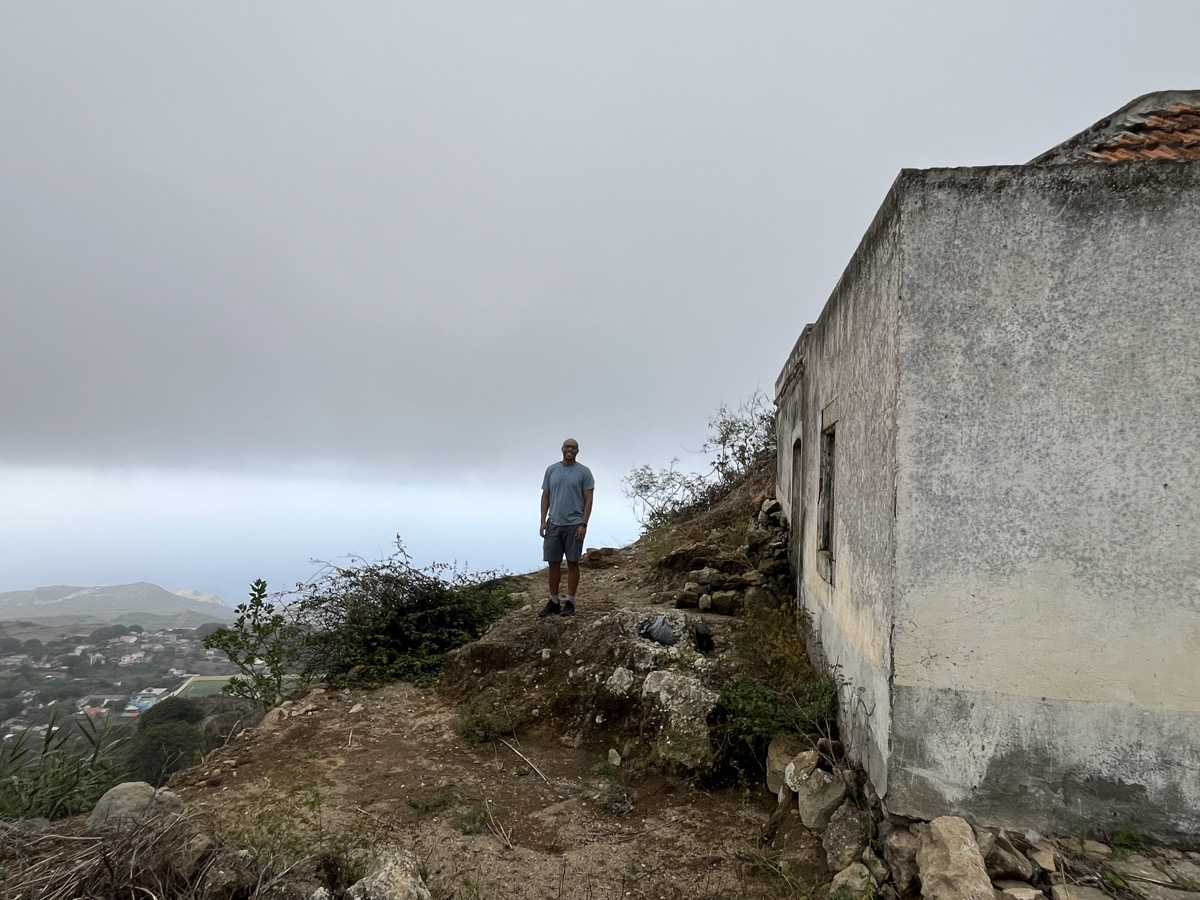
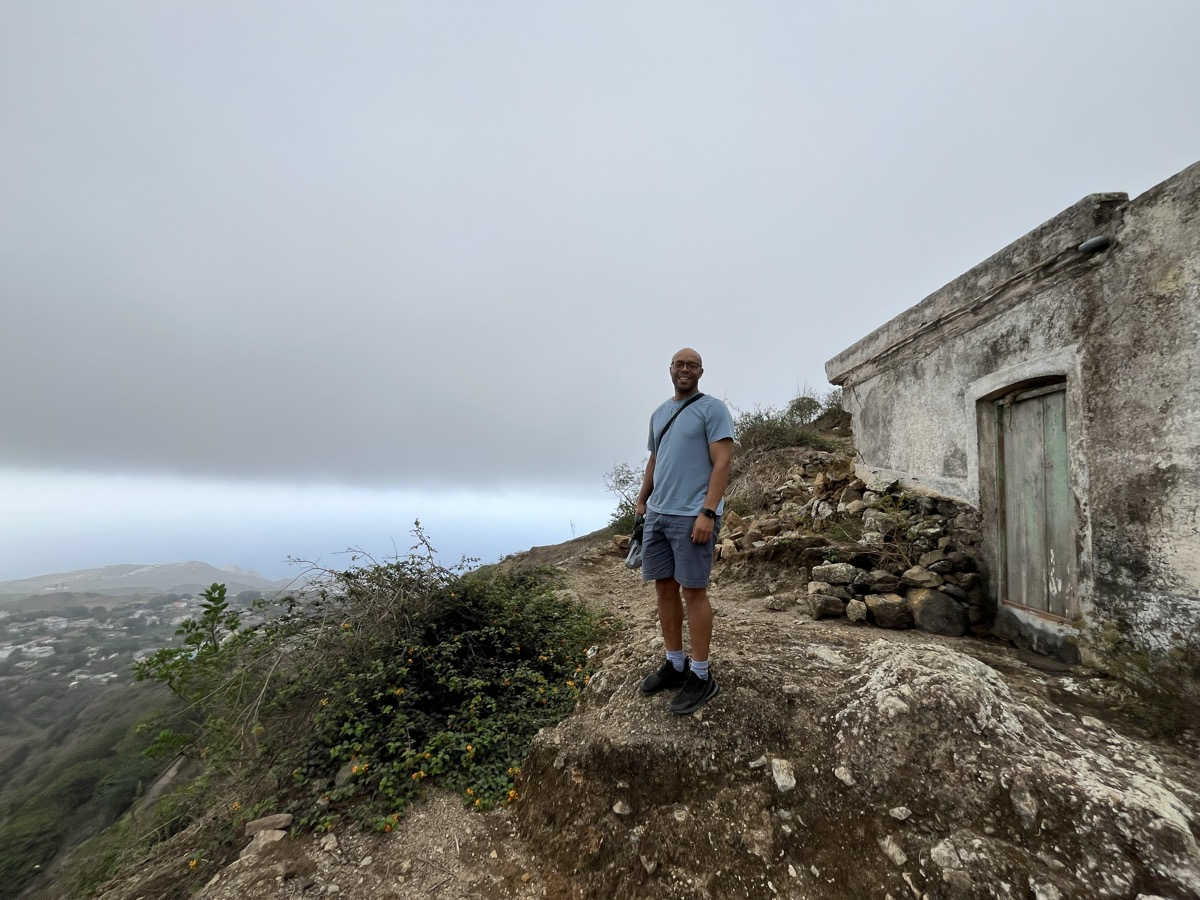
refactor: improve site copy, fix stale links, and add structured data
Content improvements based on portfolio best practices research:
- Rewrite home H1 to action-oriented: "...builds scalable backend systems
  that ship fast"
- Rewrite About page opening with hook-first approach instead of leading
  with years of experience
- Remove generic LinkedIn-speak from About closing paragraph
- Rewrite Articles intro to complement title instead of repeating it
- Use "13+ years" consistently across all metadata

Fixes:
- Update project repo link from costacodecraft to joaquimcosta.dev
- Update Uses: pyenv → uv, Cursor → Claude Code, add GCP alongside Azure
- Update Terraform entry (drop Bicep for multi-cloud focus)
- Crop Cabo Verde carousel photo and About portrait for better framing

SEO:
- Add Person JSON-LD structured data with sameAs links

diff --git a/src/app/uses/page.tsx b/src/app/uses/page.tsx
@@ -64,19 +64,19 @@ export default function Uses() {
           </Tool>
         </ToolsSection>
         <ToolsSection title="Cloud & Infrastructure">
-          <Tool title="Azure">
-            My primary cloud platform. I&apos;ve worked extensively with Azure
-            services including AKS, Cosmos DB, Azure DevOps, and Azure AI
-            Services. I hold multiple Azure certifications.
+          <Tool title="Azure & Google Cloud">
+            My primary cloud platforms. On Azure I work with AKS, Cosmos DB,
+            Azure DevOps, and Azure AI Services. On GCP I use Cloud Run, GKE,
+            and Cloud Build. I hold multiple Azure certifications.
           </Tool>
           <Tool title="Docker & Kubernetes">
             Essential for containerized deployments. I use Docker for local
-            development environments and Kubernetes (AKS) for production
+            development environments and Kubernetes (AKS, GKE) for production
             orchestration.
           </Tool>
-          <Tool title="Terraform & Bicep">
-            Infrastructure as code tools I use for provisioning and managing
-            cloud resources reproducibly.
+          <Tool title="Terraform">
+            My infrastructure as code tool for provisioning and managing cloud
+            resources across Azure and GCP reproducibly.
           </Tool>
           <Tool title="GitHub Actions">
             My CI/CD platform of choice. I design workflows for module-specific
@@ -103,17 +103,18 @@ export default function Uses() {
             My primary IDE for Java and Kotlin development. The refactoring
             tools and Spring Boot integration are unmatched.
           </Tool>
-          <Tool title="VS Code & Cursor">
-            For TypeScript, Python, and general-purpose editing. Cursor&apos;s AI
-            features have been a game-changer for productivity.
+          <Tool title="VS Code & Claude Code">
+            VS Code is my editor for TypeScript, Python, and general-purpose
+            work. Claude Code is my AI-powered CLI for autonomous coding tasks,
+            code review, and rapid prototyping.
           </Tool>
           <Tool title="iTerm2 + Zsh + Oh My Zsh">
             My terminal setup. Combined with custom aliases and plugins, it
             makes navigating projects and running commands efficient.
           </Tool>
-          <Tool title="SDKMAN, nvm, pyenv">
+          <Tool title="SDKMAN, nvm, uv">
             Version managers for Java/Kotlin (SDKMAN), Node.js (nvm), and
-            Python (pyenv). Essential for managing multiple projects with
+            Python (uv). Essential for managing multiple projects with
             different runtime versions.
           </Tool>
         </ToolsSection>

diff --git a/src/app/layout.tsx b/src/app/layout.tsx
@@ -12,7 +12,7 @@ export const metadata: Metadata = {
     default: 'Joaquim Costa - Staff Software Engineer',
   },
   description:
-    "I'm Joaquim, a Staff Software Engineer with over a decade of experience building scalable backend systems using Java, Kotlin, and Spring Boot. I focus on microservices architecture, DevOps automation, and cloud-native design.",
+    "I'm Joaquim, a Staff Software Engineer with 13+ years of experience building scalable backend systems using Java, Kotlin, and Spring Boot. I focus on microservices, DevOps automation, and cloud-native architecture.",
   openGraph: {
     title: 'Joaquim Costa - Staff Software Engineer',
     description:
@@ -37,6 +37,34 @@ export default function RootLayout({
 }) {
   return (
     <html lang="en" className="h-full antialiased" suppressHydrationWarning>
+      <head>
+        <script
+          type="application/ld+json"
+          dangerouslySetInnerHTML={{
+            __html: JSON.stringify({
+              '@context': 'https://schema.org',
+              '@type': 'Person',
+              name: 'Joaquim Costa',
+              url: 'https://joaquimcosta.dev',
+              jobTitle: 'Staff Software Engineer',
+              worksFor: { '@type': 'Organization', name: 'Kroger' },
+              sameAs: [
+                'https://github.com/joaquimscosta',
+                'https://www.linkedin.com/in/joaquimscosta',
+              ],
+              knowsAbout: [
+                'Java',
+                'Kotlin',
+                'Spring Boot',
+                'Microservices',
+                'Cloud-Native Architecture',
+                'Azure',
+                'Kubernetes',
+              ],
+            }),
+          }}
+        />
+      </head>
       <body className="flex h-full bg-zinc-50 dark:bg-black">
         <Providers>
           <div className="flex w-full">

diff --git a/src/app/about/page.tsx b/src/app/about/page.tsx
@@ -61,10 +61,12 @@ export default function About() {
           </h1>
           <div className="mt-6 space-y-7 text-base text-zinc-600 dark:text-zinc-400">
             <p>
-              I&apos;m a Staff Software Engineer with over 13 years of experience
-              designing and building secure, cloud-native backend systems. I
-              specialize in Java, Kotlin, and Spring Boot, with a strong focus on
-              microservices architecture, API design, and DevOps automation.
+              I believe great backend systems should be invisible — reliable
+              enough that no one thinks about them and fast enough that no one
+              complains. That belief has driven 13+ years of designing and
+              building secure, cloud-native systems in Java, Kotlin, and Spring
+              Boot, with a focus on microservices architecture, API design, and
+              DevOps automation.
             </p>
             <p>
               I played a leading role at <strong>General Electric</strong> where
@@ -103,9 +105,7 @@ export default function About() {
             </p>
             <p>
               Outside of engineering, I enjoy traveling, automating my home,
-              playing soccer (futebol), and dancing. I&apos;m based in Rhode Island
-              and always open to collaboration, mentoring, and solving meaningful
-              technical challenges.
+              playing soccer (futebol), and dancing. I&apos;m based in Rhode Island.
             </p>
           </div>
         </div>

diff --git a/src/app/page.tsx b/src/app/page.tsx
@@ -222,15 +222,14 @@ export default async function Home() {
       <Container className="mt-9">
         <div className="max-w-2xl">
           <h1 className="text-4xl font-bold tracking-tight text-zinc-800 sm:text-5xl dark:text-zinc-100">
-            Staff Software Engineer, backend specialist, and cloud-native
-            enthusiast.
+            Staff Software Engineer who builds scalable backend systems that
+            ship fast.
           </h1>
           <p className="mt-6 text-base text-zinc-600 dark:text-zinc-400">
-            I&apos;m Joaquim, a Staff Software Engineer with over a decade of
-            experience building scalable, high-performance backend systems using
-            Java, Kotlin, and Spring Boot. I focus on microservices architecture,
-            DevOps automation, and cloud-native design to help teams ship
-            reliable software — fast.
+            I&apos;m Joaquim — 13+ years turning complex backend challenges into
+            clean, reliable systems. Java, Kotlin, Spring Boot, and cloud-native
+            architecture are my daily tools. I focus on microservices, DevOps
+            automation, and helping teams deliver with confidence.
           </p>
           <div className="mt-6 flex gap-6">
             <SocialLink

diff --git a/src/app/articles/page.tsx b/src/app/articles/page.tsx
@@ -46,7 +46,7 @@ export default async function ArticlesIndex() {
   return (
     <SimpleLayout
       title="Writing on backend engineering, microservices, and cloud-native development."
-      intro="Thoughts on backend engineering, microservices, cloud-native development, and more."
+      intro="Lessons learned from building production systems, deep dives into architecture patterns, and practical takes on the tools I use every day."
     >
       <div className="md:border-l md:border-zinc-100 md:pl-6 md:dark:border-zinc-700/40">
         <div className="flex max-w-3xl flex-col space-y-16">

diff --git a/src/app/projects/page.tsx b/src/app/projects/page.tsx
@@ -13,7 +13,7 @@ const projects = [
     description:
       'My personal portfolio and blog — built with Next.js, Tailwind CSS, and TypeScript.',
     link: {
-      href: 'https://github.com/joaquimscosta/costacodecraft',
+      href: 'https://github.com/joaquimscosta/joaquimcosta.dev',
       label: 'github.com',
     },
     logo: logoCostaCodeCraft,
